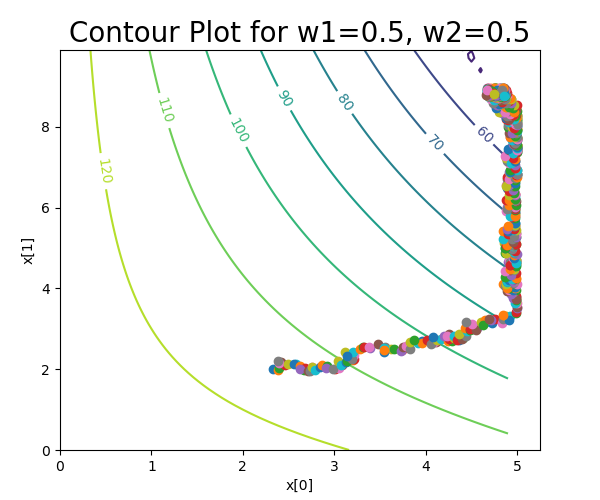
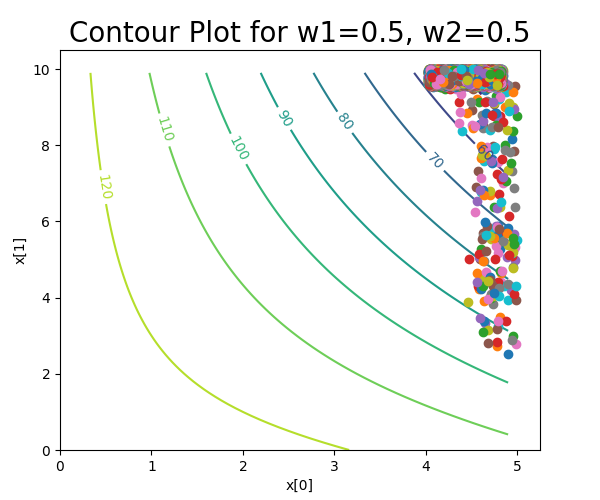
I think this is the final task 2

diff --git a/task2/task2.py b/task2/task2.py
@@ -13,13 +13,14 @@ f1s = []
 f2s = []
 
 plot_all_trajectories = False
-for i in range(1001):
-    w1 = i / 1000.0
-    w2 = 1 - i / 1000.0
+num_points = 10 if plot_all_trajectories else 1000
+for i in range(num_points + 1):
+    w1 = i / num_points
+    w2 = 1 - i / num_points
 
-    def objective(x):
-        f1 = 0.5 * np.power(x[0], 2) * x[1]
-        f2 = np.power(x[0], 2) + 3 * x[0] * x[1]
+    def objective(x0, x1):
+        f1 = 0.5 * np.power(x0, 2) * x1
+        f2 = np.power(x0, 2) + 3 * x0 * x1
         r1 = 0
         r2 = 250
         return np.maximum(w1 * np.abs(f1 - r1), w2 * np.abs(f2 - r2))
@@ -29,7 +30,7 @@ for i in range(1001):
         # generate an initial point
         best = init
         # evaluate the initial point
-        best_eval = objective(best)
+        best_eval = objective(best[0], best[1])
         curr, curr_eval = best, best_eval  # current working solution
         scores = list()
         points = list()
@@ -38,19 +39,13 @@ for i in range(1001):
             # candidate = [curr[0] + rand() * step_size[0] - step_size[0] / 2.0,
                         #  curr[1] + rand() * step_size[1] - step_size[1] / 2.0]
             candidate = [np.random.uniform(max(bounds[0, 0], curr[0] - step_size[0]), min(bounds[0, 1], curr[0] + step_size[0])),
-                        random.uniform(max(bounds[1, 0], curr[1] - step_size[1]), min(bounds[1, 1], curr[1] + step_size[1])) ]
-            # print(candidate)
-            if candidate[0] > bounds[0, 1]:
-                candidate[0] = curr[0]
-                print('gg')
-            if candidate[1] > bounds[1, 1]:
-                candidate[1] = curr[1]
-                print('dsa')
+                        random.uniform(max(bounds[1, 0], curr[1] - step_size[1]), min(bounds[1, 1], curr[1] + step_size[1]))]
+
             points.append(candidate)
             # print('>%d f(%s) = %.5f, %s' % (i, best, best_eval, candidate))
             # evaluate candidate point
             # check for new best solution
-            candidate_eval = objective(candidate)
+            candidate_eval = objective(candidate[0], candidate[1])
             if candidate_eval < best_eval:  # store new best point
                 best, best_eval = candidate, candidate_eval
                 # keep track of scores
@@ -60,9 +55,9 @@ for i in range(1001):
         return [best, best_eval, points, scores]
 
     bounds = asarray([[0, 5], [0, 10]])
-    step_size = [0.4, 0.4]
+    step_size = asarray([0.4, 0.4])
     n_iterations = 10000
-    init = [2.4, 2.0]
+    init = asarray([np.random.uniform(bounds[0, 0], bounds[0, 1]), np.random.uniform(bounds[1, 0], bounds[1, 1])])
 
     best, score, points, scores, = local_hillclimber(objective, bounds, n_iterations, step_size, init)
     all_bests[f'{round(w1,2)}_{round(w2,2)}'] = {'f1':best[0], 'f2':best[1], 'score':score}
@@ -86,7 +81,7 @@ for i in range(1001):
         ax = fig.add_axes([left, bottom, width, height])
         # Z = 0.1 * np.abs((0.5 * np.power(X, 2) * Y)) +
         # 0.9 * np.abs((np.power(X, 2) + 3 * X * Y) - 250)
-        Z = objective([X, Y])
+        Z = objective(X, Y)
         # print(Z)
 
         cp = ax.contour(X, Y, Z)
